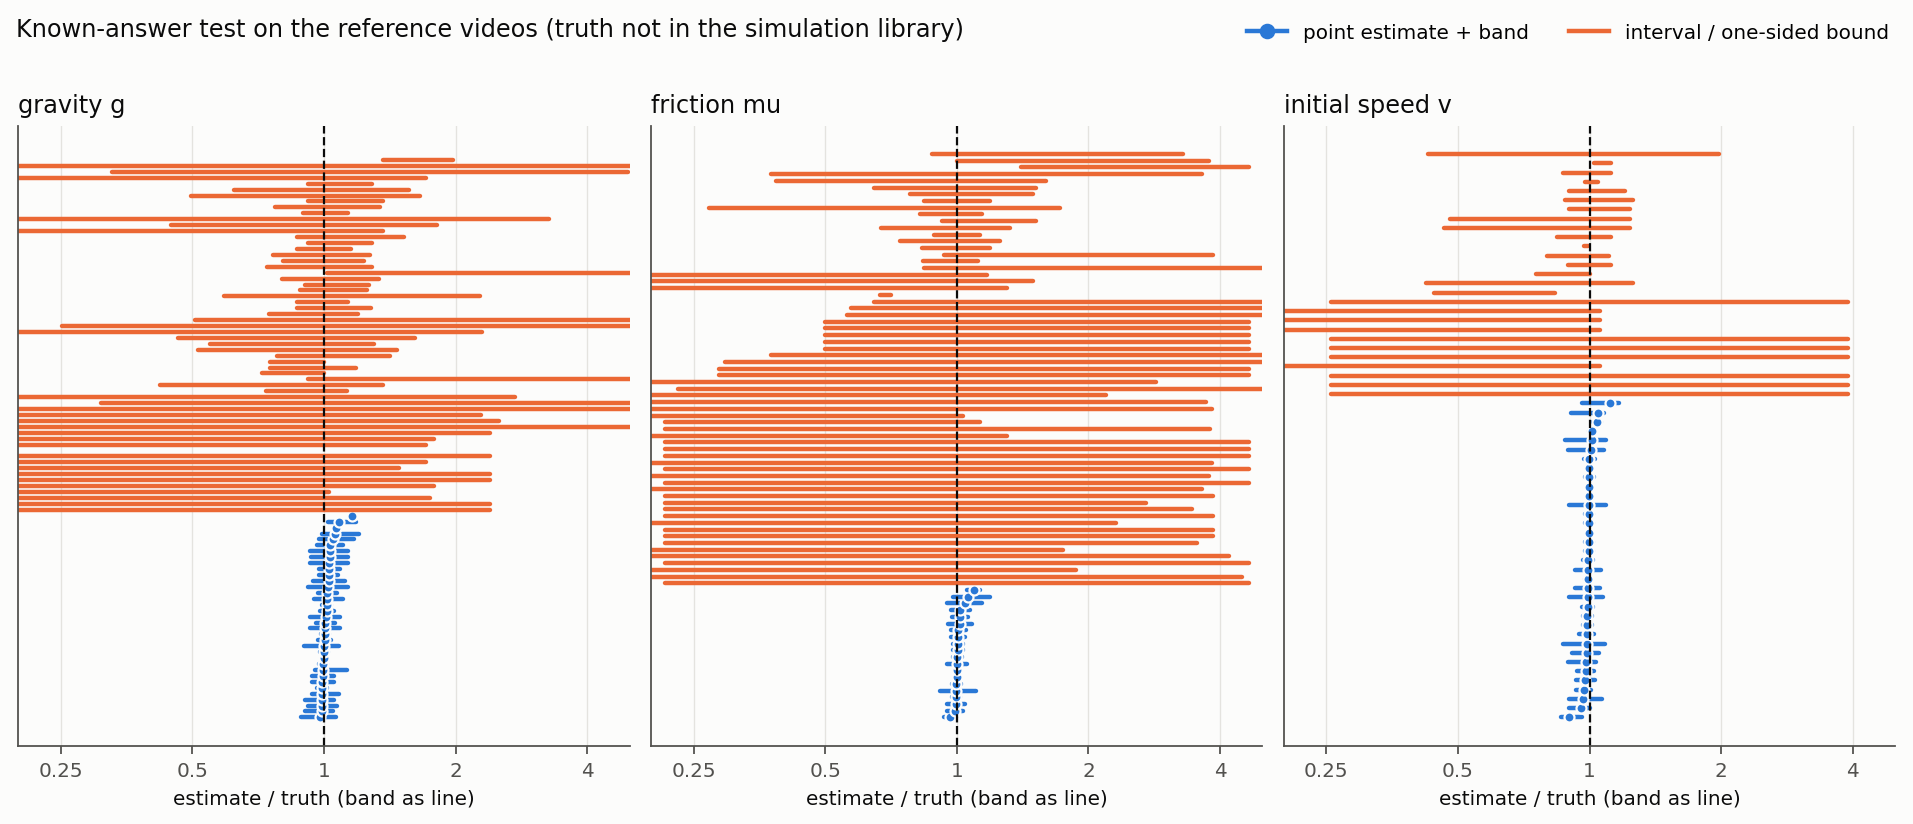
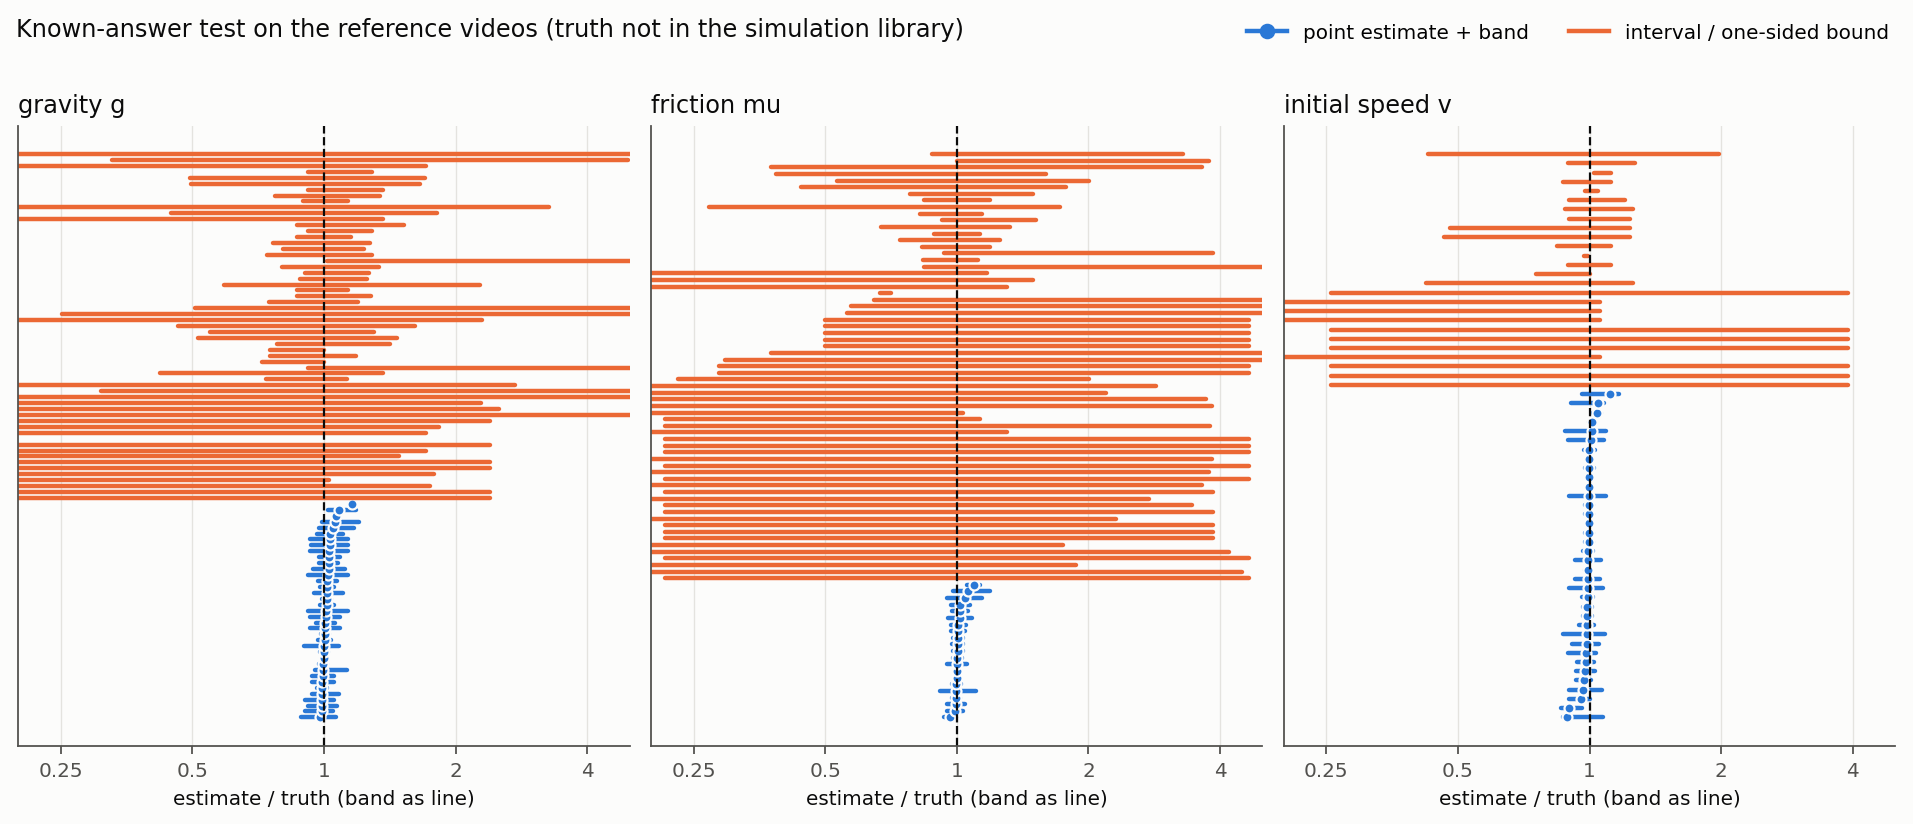
Acceptance report: exact numbers after D40, precise values (best fit), sources of reference error

Changed region(s): [[0.0, 0.182, 0.9869, 0.7888], [0.8019, 0.7585, 0.8327, 0.8799], [0.8019, 0.6978, 0.8327, 0.7282]]

diff --git a/docs/physprobe/figures/tables.md b/docs/physprobe/figures/tables.md
@@ -2,29 +2,29 @@
 
 | parameter | cases with a band | point estimates | median abs error | 90th pct | truth inside band |
 |---|---|---|---|---|---|
-| gravity g | 96 | 35 | 1.4% | 6.2% | 85/96 |
-| friction mu | 85 | 20 | 0.7% | 6.2% | 75/85 |
-| initial speed v | 62 | 35 | 1.0% | 4.4% | 56/62 |
+| gravity g | 96 | 37 | 1.4% | 6.2% | 87/96 |
+| friction mu | 86 | 21 | 0.6% | 4.3% | 77/86 |
+| initial speed v | 62 | 36 | 1.0% | 4.7% | 57/62 |
 
 ### Fig. 2 — result kinds with known truth
 
 | set | parameter | n | point estimate | interval | one-sided bound | unidentifiable | not explained | no observation | point median abs error | truth inside band |
 |---|---|---|---|---|---|---|---|---|---|---|
-| reference 30 fps | g | 97 | 36% | 37% | 11% | 8% | 7% | 0% | 1.4% | 85/96 |
-| reference 30 fps | mu | 87 | 23% | 17% | 28% | 21% | 10% | 1% | 0.7% | 75/85 |
-| reference 30 fps | v | 62 | 56% | 19% | 6% | 11% | 6% | 0% | 1.0% | 56/62 |
-| synthetic 15 fps, x1.026 warp | g | 97 | 35% | 32% | 10% | 8% | 12% | 2% | 1.2% | 80/93 |
-| synthetic 15 fps, x1.026 warp | mu | 87 | 22% | 18% | 25% | 15% | 16% | 3% | 0.9% | 70/81 |
-| synthetic 15 fps, x1.026 warp | v | 62 | 53% | 16% | 6% | 11% | 10% | 3% | 0.8% | 52/59 |
-| synthetic 10 fps, 16 frames | g | 97 | 20% | 23% | 14% | 32% | 7% | 4% | 1.6% | 80/91 |
-| synthetic 10 fps, 16 frames | mu | 87 | 3% | 15% | 31% | 34% | 11% | 5% | 2.1% | 70/81 |
-| synthetic 10 fps, 16 frames | v | 62 | 31% | 31% | 8% | 16% | 8% | 6% | 0.4% | 52/56 |
-| synthetic 30 fps, 121 frames | g | 97 | 30% | 39% | 10% | 9% | 11% | 0% | 1.9% | 83/96 |
-| synthetic 30 fps, 121 frames | mu | 87 | 21% | 18% | 26% | 18% | 15% | 1% | 1.0% | 73/83 |
-| synthetic 30 fps, 121 frames | v | 62 | 50% | 26% | 3% | 15% | 6% | 0% | 0.8% | 58/61 |
-| synthetic 15 fps + camera pan, compensated | g | 97 | 34% | 32% | 10% | 8% | 13% | 2% | 1.2% | 78/92 |
-| synthetic 15 fps + camera pan, compensated | mu | 87 | 22% | 18% | 25% | 15% | 16% | 3% | 0.8% | 70/81 |
-| synthetic 15 fps + camera pan, compensated | v | 62 | 53% | 16% | 6% | 11% | 10% | 3% | 0.9% | 51/58 |
+| reference 30 fps | g | 97 | 38% | 36% | 11% | 8% | 6% | 0% | 1.4% | 87/96 |
+| reference 30 fps | mu | 87 | 24% | 20% | 28% | 20% | 9% | 0% | 0.6% | 77/86 |
+| reference 30 fps | v | 62 | 58% | 19% | 6% | 11% | 5% | 0% | 1.0% | 57/62 |
+| synthetic 15 fps, x1.026 warp | g | 97 | 36% | 33% | 10% | 8% | 10% | 2% | 1.2% | 82/93 |
+| synthetic 15 fps, x1.026 warp | mu | 87 | 22% | 20% | 26% | 15% | 15% | 2% | 0.9% | 72/82 |
+| synthetic 15 fps, x1.026 warp | v | 62 | 53% | 18% | 6% | 11% | 8% | 3% | 0.8% | 53/59 |
+| synthetic 10 fps, 16 frames | g | 97 | 20% | 26% | 13% | 33% | 4% | 4% | 1.6% | 85/91 |
+| synthetic 10 fps, 16 frames | mu | 87 | 3% | 18% | 30% | 38% | 6% | 5% | 2.1% | 75/81 |
+| synthetic 10 fps, 16 frames | v | 62 | 34% | 31% | 8% | 16% | 5% | 6% | 0.4% | 54/56 |
+| synthetic 30 fps, 121 frames | g | 97 | 32% | 38% | 10% | 9% | 10% | 0% | 1.9% | 85/96 |
+| synthetic 30 fps, 121 frames | mu | 87 | 22% | 21% | 26% | 17% | 14% | 0% | 0.8% | 75/84 |
+| synthetic 30 fps, 121 frames | v | 62 | 50% | 27% | 3% | 15% | 5% | 0% | 0.8% | 59/61 |
+| synthetic 15 fps + camera pan, compensated | g | 97 | 35% | 33% | 10% | 8% | 11% | 2% | 1.2% | 80/92 |
+| synthetic 15 fps + camera pan, compensated | mu | 87 | 22% | 20% | 26% | 15% | 15% | 2% | 0.8% | 72/82 |
+| synthetic 15 fps + camera pan, compensated | v | 62 | 53% | 18% | 6% | 11% | 8% | 3% | 0.9% | 52/58 |
 | synthetic 15 fps + camera pan, not compensated | g | 97 | 1% | 8% | 5% | 3% | 80% | 2% | 53.0% | 9/53 |
 | synthetic 15 fps + camera pan, not compensated | mu | 87 | 6% | 2% | 7% | 2% | 80% | 2% | 52.1% | 9/42 |
 | synthetic 15 fps + camera pan, not compensated | v | 62 | 5% | 3% | 8% | 3% | 77% | 3% | 6.2% | 9/42 |
@@ -33,52 +33,52 @@
 
 | model | videos | not validated (gated) | validated | point estimate | interval | one-sided bound | unidentifiable | not explained | no observation | prompt inside band |
 |---|---|---|---|---|---|---|---|---|---|---|
-| cogvideox_i2v | 873 | 126 | 747 | 0% | 4% | 18% | 10% | 55% | 12% | 108/433 |
-| cosmos | 873 | 126 | 747 | 0% | 6% | 20% | 6% | 56% | 11% | 65/410 |
-| cosmos3_nano | 873 | 99 | 774 | 1% | 5% | 20% | 8% | 62% | 5% | 85/460 |
-| dynamicrafter_i2v | 873 | 135 | 738 | 0% | 2% | 6% | 11% | 38% | 43% | 105/214 |
-| hunyuan15_i2v | 873 | 99 | 774 | 1% | 5% | 9% | 4% | 80% | 1% | 52/369 |
-| ltx_i2v | 873 | 99 | 774 | 0% | 3% | 24% | 11% | 54% | 7% | 109/488 |
-| minimax_h3 | 730 | 78 | 652 | 2% | 10% | 8% | 8% | 53% | 20% | 63/299 |
-| physalign_wan22_i2v_a14b | 873 | 126 | 747 | 0% | 3% | 13% | 5% | 77% | 1% | 54/367 |
-| physrvg_ti2v5b | 873 | 126 | 747 | 0% | 5% | 27% | 10% | 58% | 1% | 107/517 |
-| videogpa_ti2v5b | 873 | 99 | 774 | 0% | 2% | 18% | 8% | 40% | 32% | 78/330 |
-| wan22_i2v_a14b | 873 | 126 | 747 | 0% | 4% | 10% | 8% | 64% | 14% | 70/320 |
-| wan_ti2v5b | 835 | 90 | 745 | 0% | 3% | 25% | 8% | 37% | 27% | 76/389 |
+| cogvideox_i2v | 873 | 108 | 765 | 0% | 4% | 18% | 9% | 56% | 12% | 110/449 |
+| cosmos | 873 | 108 | 765 | 0% | 6% | 20% | 6% | 57% | 11% | 65/426 |
+| cosmos3_nano | 873 | 90 | 783 | 1% | 5% | 20% | 8% | 62% | 5% | 85/469 |
+| dynamicrafter_i2v | 873 | 99 | 774 | 0% | 2% | 6% | 10% | 37% | 45% | 106/217 |
+| hunyuan15_i2v | 873 | 90 | 783 | 1% | 5% | 9% | 4% | 80% | 1% | 52/376 |
+| ltx_i2v | 873 | 90 | 783 | 0% | 3% | 24% | 11% | 54% | 7% | 110/497 |
+| minimax_h3 | 730 | 70 | 660 | 2% | 10% | 7% | 7% | 53% | 20% | 63/307 |
+| physalign_wan22_i2v_a14b | 873 | 108 | 765 | 0% | 3% | 13% | 5% | 77% | 1% | 54/383 |
+| physrvg_ti2v5b | 873 | 108 | 765 | 0% | 5% | 26% | 10% | 58% | 1% | 110/535 |
+| videogpa_ti2v5b | 873 | 90 | 783 | 0% | 2% | 17% | 9% | 40% | 32% | 88/336 |
+| wan22_i2v_a14b | 873 | 108 | 765 | 0% | 4% | 10% | 8% | 65% | 14% | 70/337 |
+| wan_ti2v5b | 835 | 81 | 754 | 0% | 4% | 24% | 8% | 38% | 26% | 80/396 |
 
 ### Fig. 3 (mu) — generated videos, result kinds per model
 
 | model | videos | not validated (gated) | validated | point estimate | interval | one-sided bound | unidentifiable | not explained | no observation | prompt inside band |
 |---|---|---|---|---|---|---|---|---|---|---|
-| cogvideox_i2v | 783 | 153 | 630 | 0% | 0% | 23% | 12% | 54% | 11% | 95/409 |
-| cosmos | 783 | 153 | 630 | 2% | 2% | 18% | 10% | 55% | 13% | 85/362 |
-| cosmos3_nano | 783 | 135 | 648 | 2% | 0% | 27% | 8% | 57% | 4% | 105/443 |
-| dynamicrafter_i2v | 783 | 180 | 603 | 0% | 1% | 11% | 8% | 32% | 48% | 70/173 |
-| hunyuan15_i2v | 783 | 135 | 648 | 1% | 1% | 10% | 6% | 81% | 1% | 49/324 |
-| ltx_i2v | 783 | 135 | 648 | 1% | 0% | 29% | 15% | 50% | 5% | 147/463 |
-| minimax_h3 | 660 | 108 | 552 | 6% | 4% | 9% | 8% | 52% | 21% | 60/267 |
-| physalign_wan22_i2v_a14b | 783 | 153 | 630 | 0% | 0% | 14% | 9% | 76% | 1% | 62/326 |
-| physrvg_ti2v5b | 783 | 153 | 630 | 0% | 0% | 34% | 13% | 52% | 1% | 115/501 |
-| videogpa_ti2v5b | 783 | 135 | 648 | 0% | 0% | 22% | 10% | 36% | 31% | 97/308 |
-| wan22_i2v_a14b | 783 | 153 | 630 | 1% | 1% | 11% | 8% | 65% | 14% | 69/289 |
-| wan_ti2v5b | 755 | 124 | 631 | 1% | 1% | 28% | 11% | 33% | 26% | 104/359 |
+| cogvideox_i2v | 783 | 135 | 648 | 1% | 1% | 24% | 11% | 52% | 11% | 100/427 |
+| cosmos | 783 | 135 | 648 | 4% | 2% | 19% | 8% | 54% | 13% | 85/378 |
+| cosmos3_nano | 783 | 117 | 666 | 2% | 2% | 28% | 7% | 57% | 4% | 105/458 |
+| dynamicrafter_i2v | 783 | 126 | 657 | 0% | 2% | 9% | 8% | 32% | 48% | 73/193 |
+| hunyuan15_i2v | 783 | 117 | 666 | 1% | 2% | 10% | 6% | 80% | 2% | 55/340 |
+| ltx_i2v | 783 | 117 | 666 | 2% | 1% | 28% | 14% | 50% | 5% | 150/480 |
+| minimax_h3 | 660 | 93 | 567 | 6% | 5% | 8% | 7% | 52% | 22% | 61/277 |
+| physalign_wan22_i2v_a14b | 783 | 135 | 648 | 1% | 0% | 15% | 9% | 74% | 1% | 71/340 |
+| physrvg_ti2v5b | 783 | 135 | 648 | 0% | 1% | 36% | 12% | 50% | 1% | 130/519 |
+| videogpa_ti2v5b | 783 | 117 | 666 | 1% | 1% | 22% | 10% | 35% | 31% | 103/323 |
+| wan22_i2v_a14b | 783 | 135 | 648 | 2% | 1% | 12% | 7% | 64% | 14% | 74/307 |
+| wan_ti2v5b | 755 | 107 | 648 | 1% | 2% | 29% | 10% | 33% | 26% | 108/376 |
 
 ### Fig. 3 (v) — generated videos, result kinds per model
 
 | model | videos | not validated (gated) | validated | point estimate | interval | one-sided bound | unidentifiable | not explained | no observation | prompt inside band |
 |---|---|---|---|---|---|---|---|---|---|---|
-| cogvideox_i2v | 558 | 72 | 486 | 0% | 0% | 30% | 8% | 52% | 10% | 60/341 |
-| cosmos | 558 | 72 | 486 | 0% | 3% | 24% | 3% | 57% | 12% | 40/306 |
-| cosmos3_nano | 558 | 36 | 522 | 2% | 3% | 25% | 5% | 59% | 7% | 56/356 |
-| dynamicrafter_i2v | 558 | 99 | 459 | 0% | 2% | 13% | 7% | 35% | 43% | 53/161 |
-| hunyuan15_i2v | 558 | 36 | 522 | 0% | 2% | 18% | 3% | 75% | 2% | 23/331 |
-| ltx_i2v | 558 | 36 | 522 | 0% | 0% | 37% | 10% | 46% | 7% | 88/377 |
-| minimax_h3 | 463 | 29 | 434 | 5% | 2% | 13% | 6% | 51% | 23% | 47/196 |
-| physalign_wan22_i2v_a14b | 558 | 72 | 486 | 0% | 0% | 15% | 6% | 77% | 2% | 45/314 |
-| physrvg_ti2v5b | 558 | 72 | 486 | 0% | 0% | 41% | 10% | 48% | 1% | 68/417 |
-| videogpa_ti2v5b | 558 | 36 | 522 | 0% | 0% | 25% | 4% | 38% | 33% | 48/262 |
-| wan22_i2v_a14b | 558 | 72 | 486 | 0% | 1% | 15% | 2% | 66% | 15% | 52/235 |
-| wan_ti2v5b | 531 | 33 | 498 | 0% | 0% | 29% | 5% | 39% | 26% | 44/301 |
+| cogvideox_i2v | 558 | 63 | 495 | 0% | 0% | 29% | 8% | 52% | 10% | 60/348 |
+| cosmos | 558 | 63 | 495 | 0% | 3% | 25% | 3% | 57% | 12% | 40/315 |
+| cosmos3_nano | 558 | 27 | 531 | 2% | 3% | 25% | 5% | 59% | 7% | 56/365 |
+| dynamicrafter_i2v | 558 | 72 | 486 | 0% | 1% | 13% | 7% | 34% | 44% | 52/166 |
+| hunyuan15_i2v | 558 | 27 | 531 | 0% | 2% | 18% | 3% | 75% | 2% | 23/339 |
+| ltx_i2v | 558 | 27 | 531 | 0% | 0% | 38% | 10% | 45% | 7% | 88/386 |
+| minimax_h3 | 463 | 21 | 442 | 5% | 2% | 13% | 6% | 52% | 23% | 47/204 |
+| physalign_wan22_i2v_a14b | 558 | 63 | 495 | 0% | 0% | 15% | 6% | 77% | 2% | 45/323 |
+| physrvg_ti2v5b | 558 | 63 | 495 | 0% | 0% | 42% | 10% | 47% | 1% | 68/426 |
+| videogpa_ti2v5b | 558 | 27 | 531 | 0% | 0% | 26% | 4% | 37% | 32% | 48/268 |
+| wan22_i2v_a14b | 558 | 63 | 495 | 0% | 1% | 15% | 2% | 66% | 15% | 52/244 |
+| wan_ti2v5b | 531 | 24 | 507 | 0% | 0% | 30% | 5% | 38% | 26% | 44/308 |
 
 ### Fig. 4 — gravity prompt response
 
@@ -91,8 +91,8 @@
 | hunyuan15_i2v | 1.38 (5) | 1.53 (12) | 1.50 (14) |
 | ltx_i2v | 1.40 (5) | 1.07 (13) | 0.74 (8) |
 | minimax_h3 | 7.33 (13) | 2.08 (22) | 5.00 (23) |
-| physalign_wan22_i2v_a14b | 1.39 (6) | 1.37 (8) | 0.74 (7) |
+| physalign_wan22_i2v_a14b | 1.39 (7) | 1.37 (8) | 0.74 (7) |
 | physrvg_ti2v5b | 1.38 (9) | 1.41 (18) | 1.01 (9) |
-| videogpa_ti2v5b | 2.02 (5) | 2.19 (4) | 1.31 (4) |
+| videogpa_ti2v5b | 3.38 (4) | 2.19 (4) | 1.31 (4) |
 | wan22_i2v_a14b | 1.39 (5) | 1.00 (16) | 1.19 (6) |
-| wan_ti2v5b | 1.39 (6) | 1.80 (13) | 0.74 (7) |
+| wan_ti2v5b | 1.38 (7) | 1.68 (14) | 0.74 (7) |
